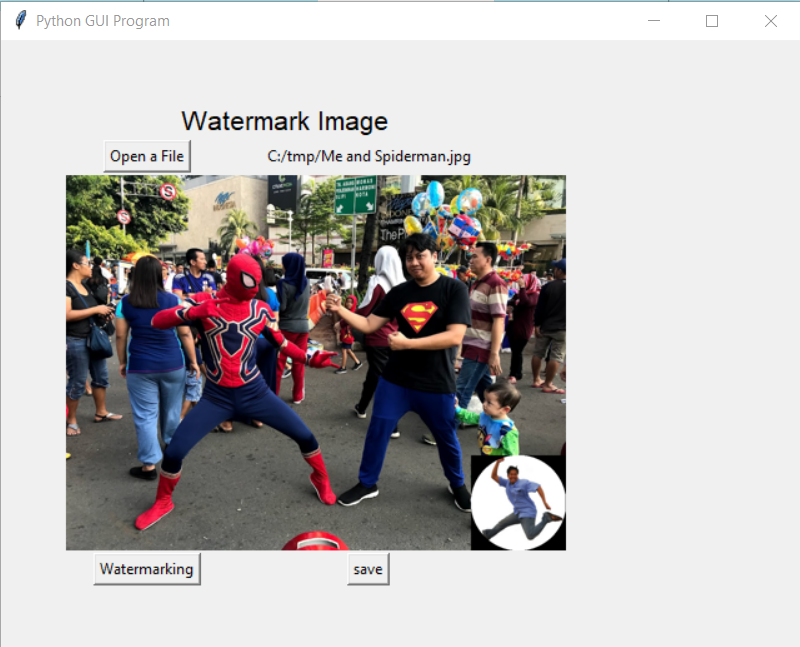
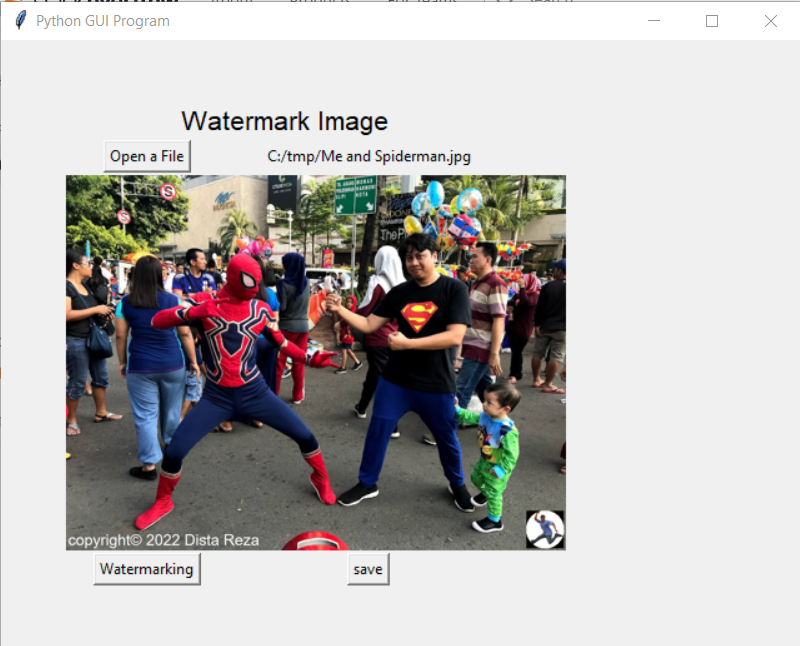
update

diff --git a/main.py b/main.py
@@ -3,7 +3,7 @@ import tkinter
 from tkinter import ttk
 from tkinter import filedialog
 from tkinter import messagebox
-from PIL import Image, ImageTk, PSDraw
+from PIL import Image, ImageTk, ImageDraw, ImageFont
 
 window = tkinter.Tk()
 window.title("Python GUI Program")
@@ -52,15 +52,23 @@ def showImage(img):
 
 def watermarking():
     global img
+    img_width, img_height = img.size
+
     logo_img_path = "C:/tmp/ItIsMeDistaReza-circle.png"
     logo_img = Image.open(logo_img_path)
+    margin = 5
+    logo_img.thumbnail(size=( img_width/10, img_height/10 )) # logo 10% of the image
 
-    img_width = img.size[0]
-    img_height = img.size[1]
-    logo_width = logo_img.size[0]
-    logo_height = logo_img.size[1]
+    logo_width, logo_height = logo_img.size
+    img.paste(logo_img, (img_width-logo_width-margin, img_height-logo_height-margin))
 
-    img.paste(logo_img, (img_width-logo_width, img_height-logo_height))
+    draw = ImageDraw.Draw(img)
+    text = "copyright© 2022 Dista Reza"
+    font = ImageFont.truetype("arial.ttf", 36)
+    textwidth, textheight = draw.textsize(text, font)
+    text_pos =  (margin, img_height -textheight - margin)
+    text_color = (255,255, 255)
+    draw.text(text_pos, text, text_color, font)
 
     showImage(img)
 
